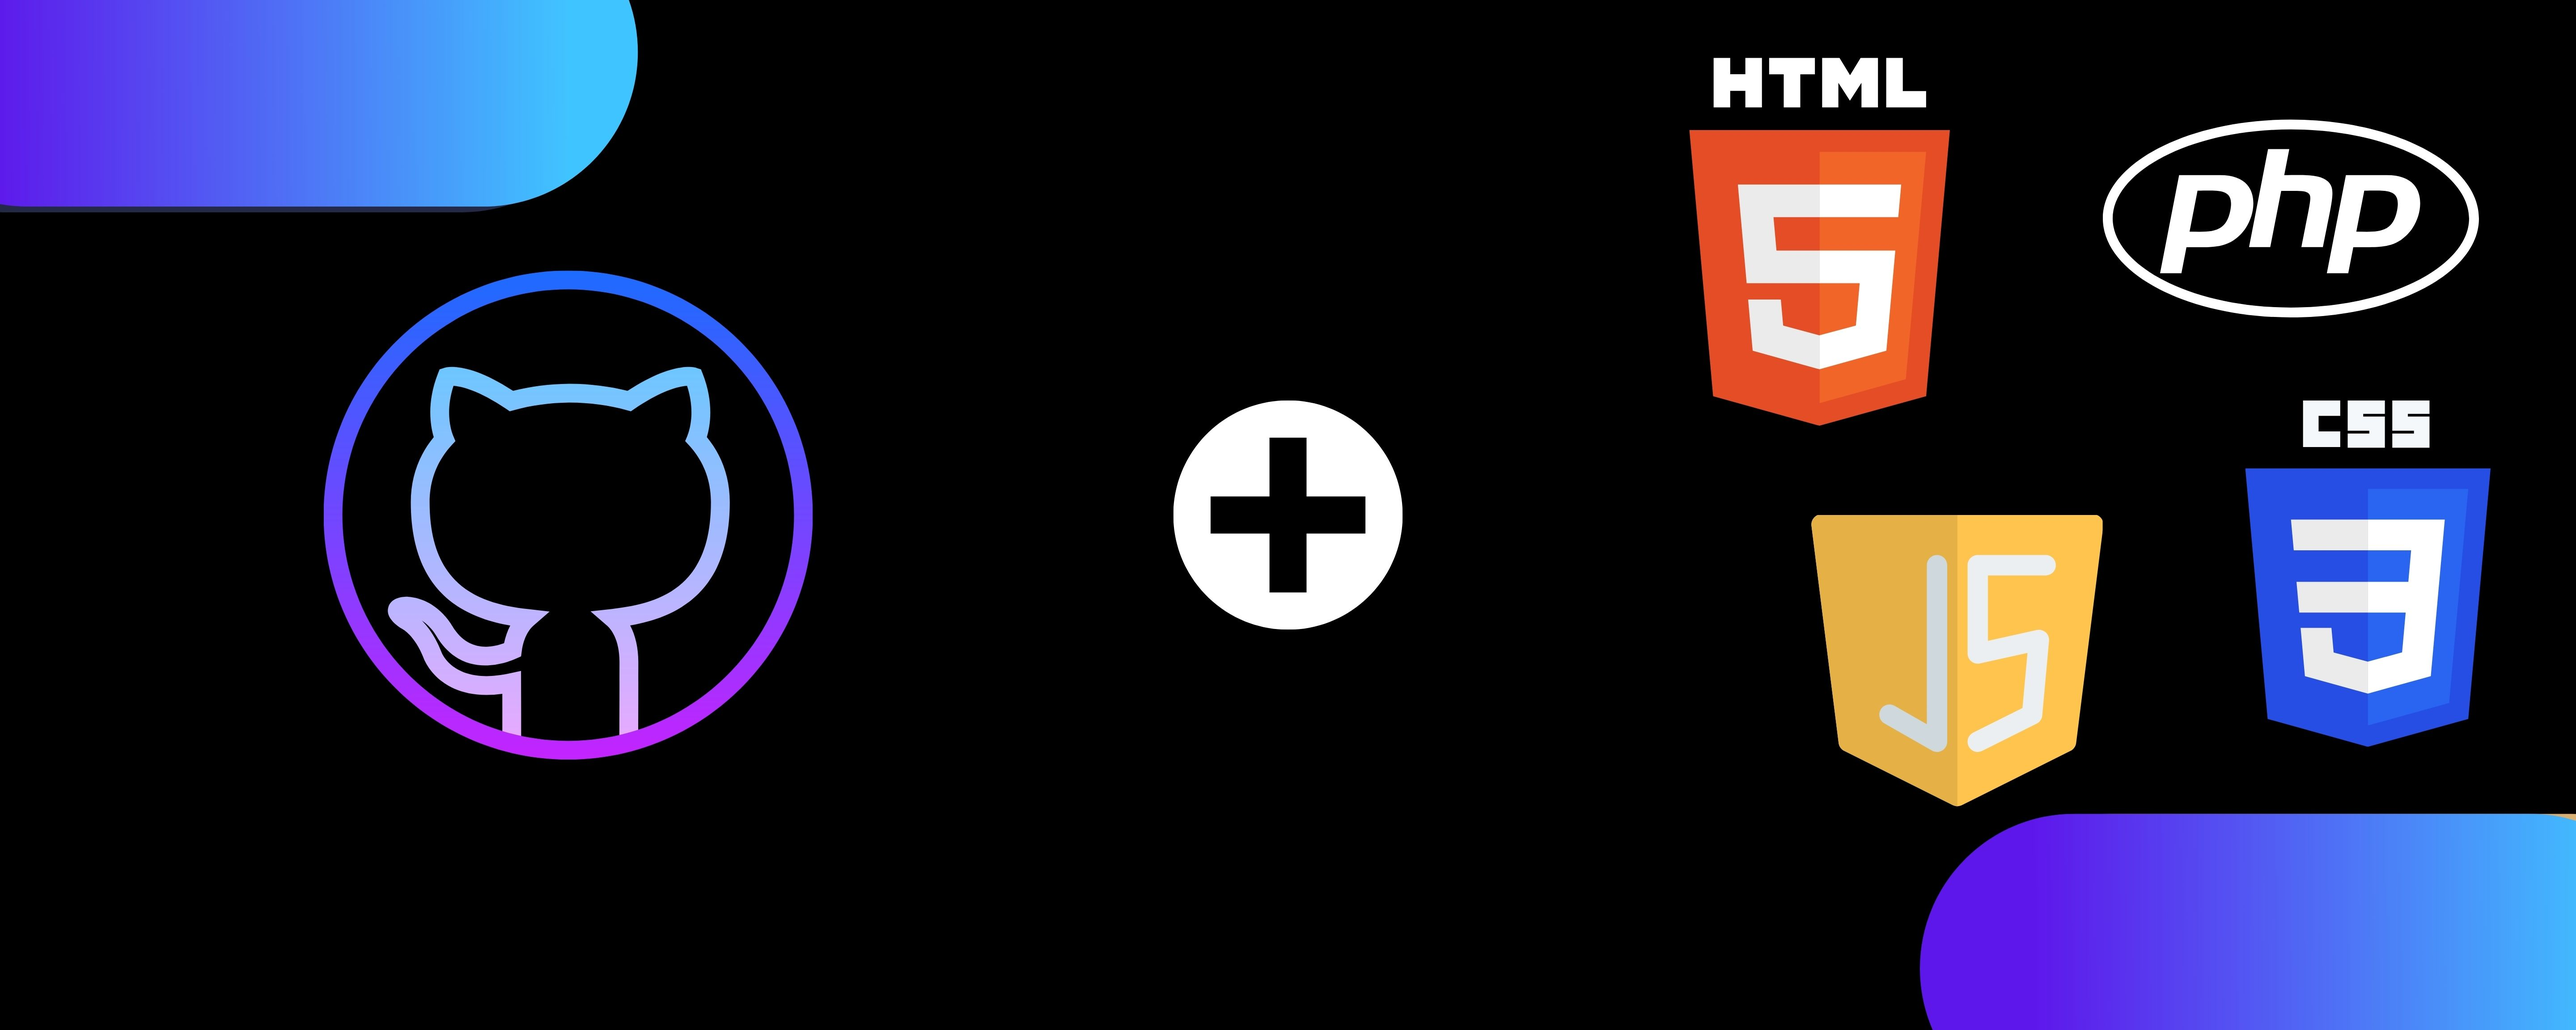
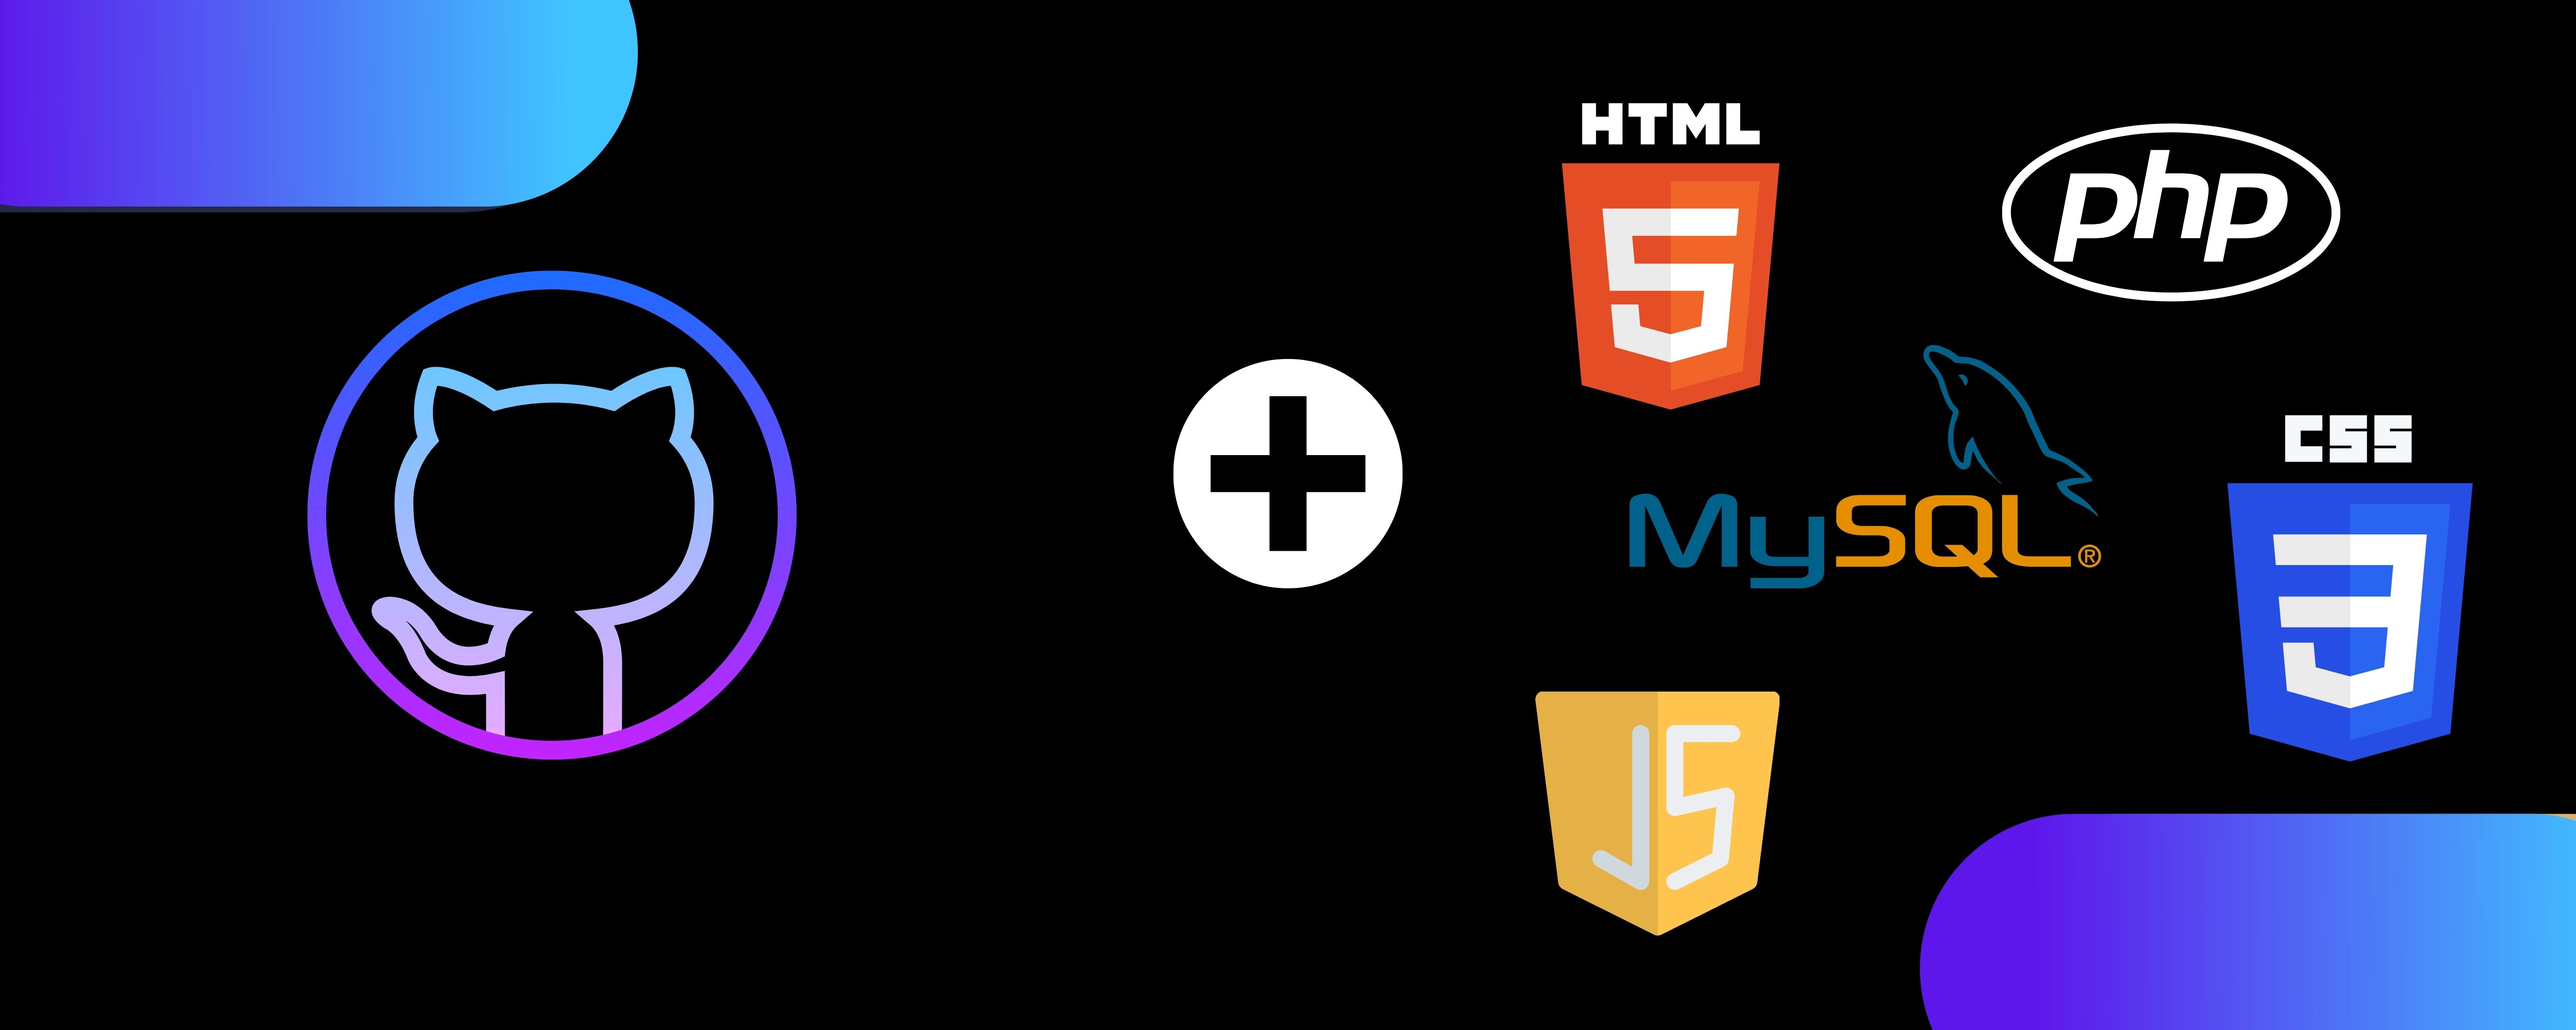
update readme

Changed region(s): [[0.5938, 0.0312, 0.9688, 0.9062], [0.0938, 0.25, 0.3125, 0.75], [0.4375, 0.3438, 0.5625, 0.625]]

diff --git a/README.md b/README.md
@@ -7,7 +7,7 @@ We have built a 2-step user verification system which uses MFA to validate the u
 - Username/Password
 - Behavioural Biometrics
 
-This project has been built using scripting languages such as PHP, HTML, JavaScript and CSS.
+This project has been built using scripting languages such as PHP, HTML, JavaScript, SQL and CSS.
 
 ## Contributors
 This project has been contributed to by:
